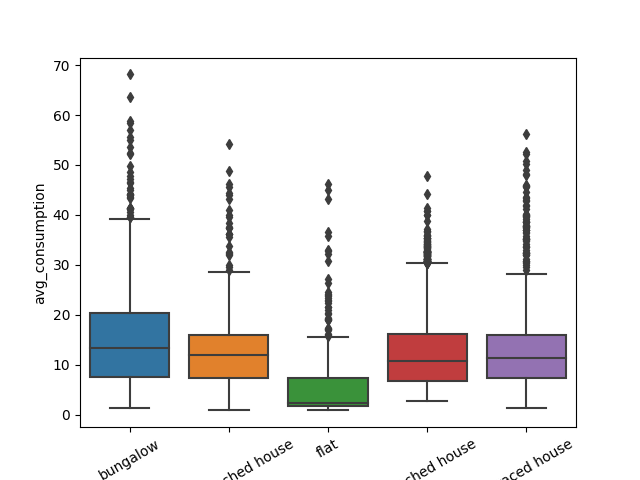
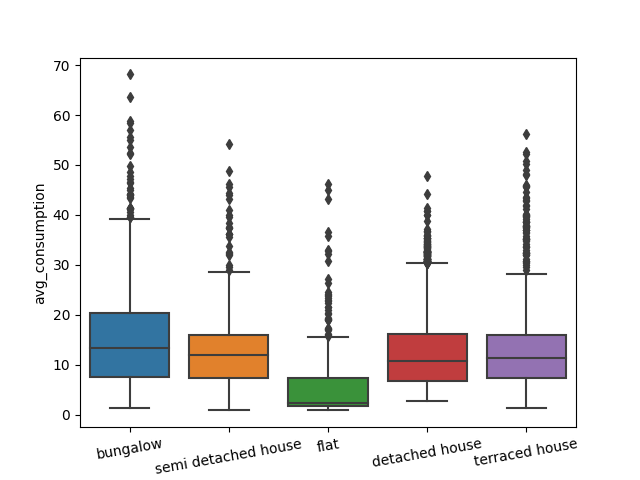
plots

Changed region(s): [[0.5625, 0.9062, 0.9062, 1.0], [0.25, 0.9062, 0.5312, 1.0], [0.1562, 0.9062, 0.25, 1.0]]

diff --git a/Term Assignment/Visualising.py b/Term Assignment/Visualising.py
@@ -19,7 +19,7 @@ daily_max_dwelling_type = sns.boxplot(x = 'dwelling_type',y= 'daily_max',data = 
 xlabels = ['bungalow','semi detached house','flat','detached house','terraced house']
 plt.figure()
 dwelling_type_plt = sns.boxplot(x = 'dwelling_type', y = 'avg_consumption',data = dataset)
-dwelling_type_plt = dwelling_type_plt.set_xticklabels(labels = xlabels, rotation=30)
+dwelling_type_plt = dwelling_type_plt.set_xticklabels(labels = xlabels, rotation=10)
 plt.savefig('Figures/boxplot_dwellingtype.png')
 
 plt.figure()
@@ -69,6 +69,12 @@ x_correct = x.reset_index()
 plt.figure()
 daily_max_date = plt.scatter(x_correct['datetime'],x_correct['daily_max'])
 plt.savefig('Figures/date_daily30max.png')
+
+f = dataset.groupby(['datetime']).agg({'avg_consumption':'mean'})
+f_correct = f.reset_index()
+plt.figure()
+daily_max_date = plt.scatter(f_correct['datetime'],f_correct['avg_consumption'])
+plt.savefig('Figures/date_avgconsumption.png')
 
 y = dataset.groupby(['datetime']).agg({'avg temp':'mean'})
 y_correct = y.reset_index()
